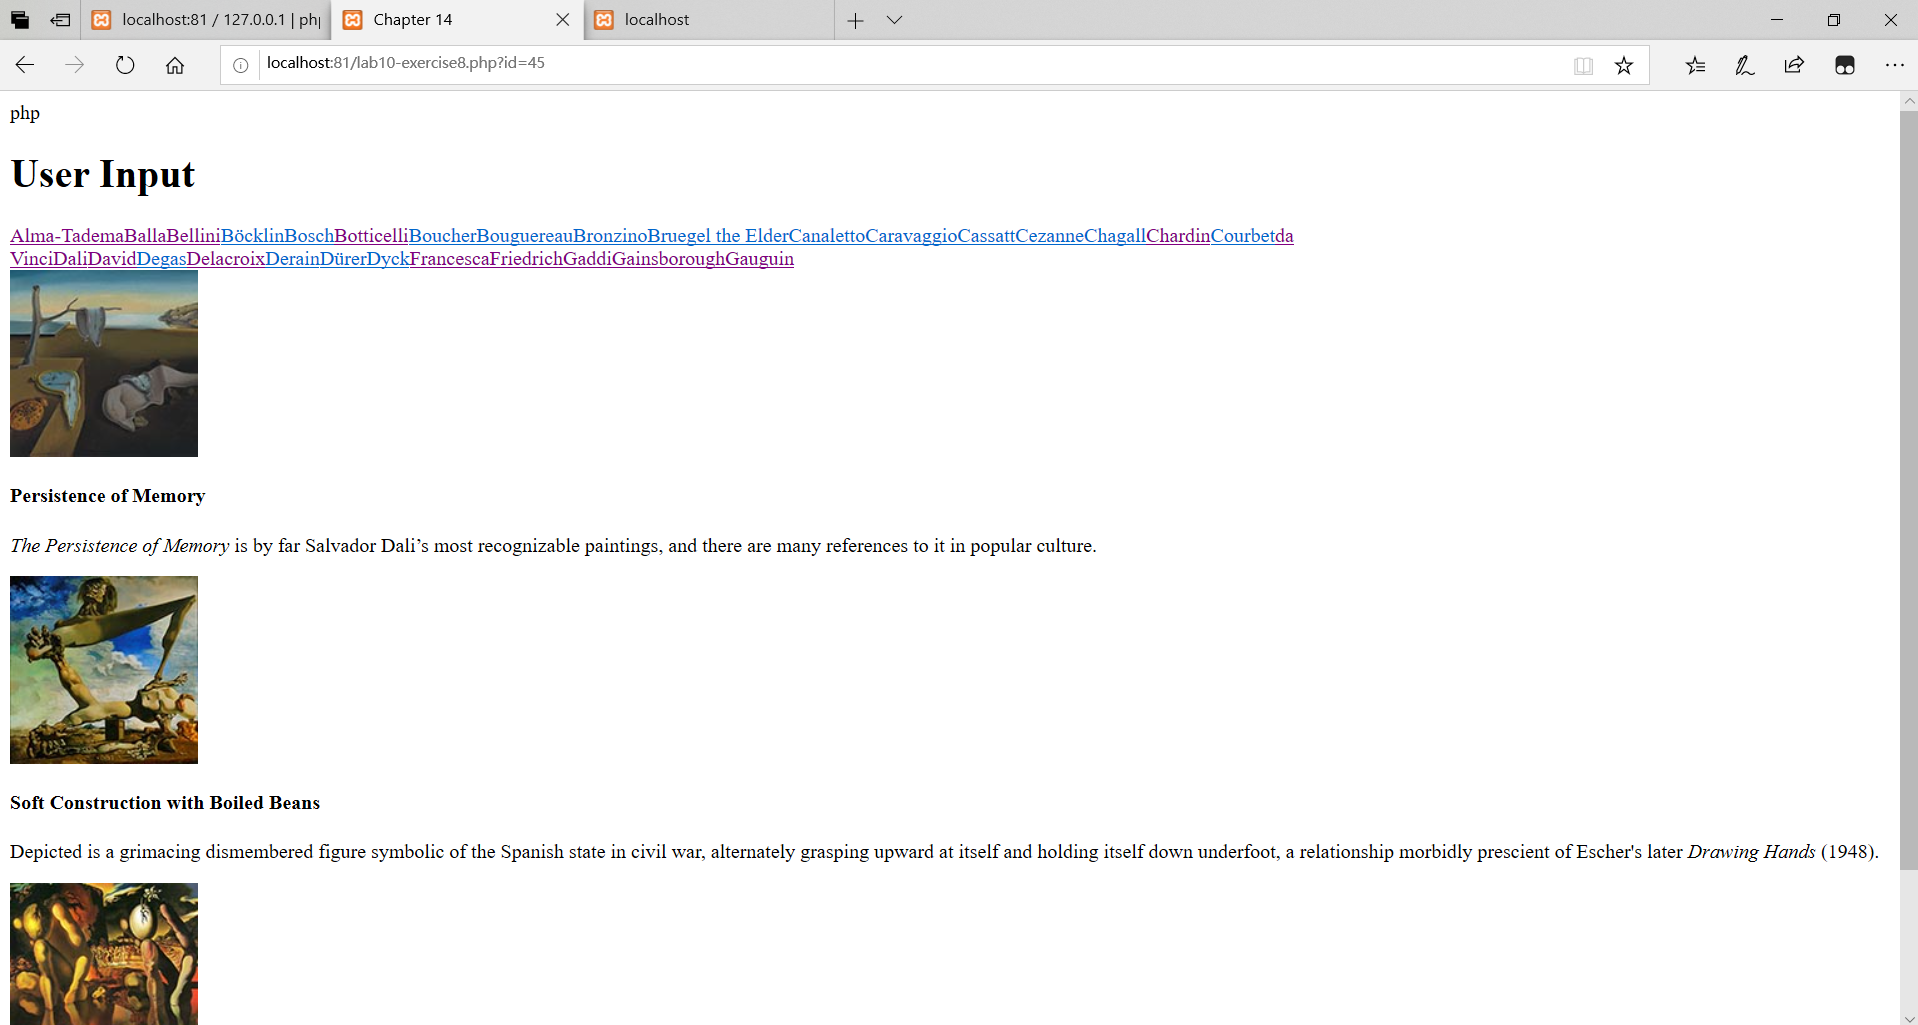
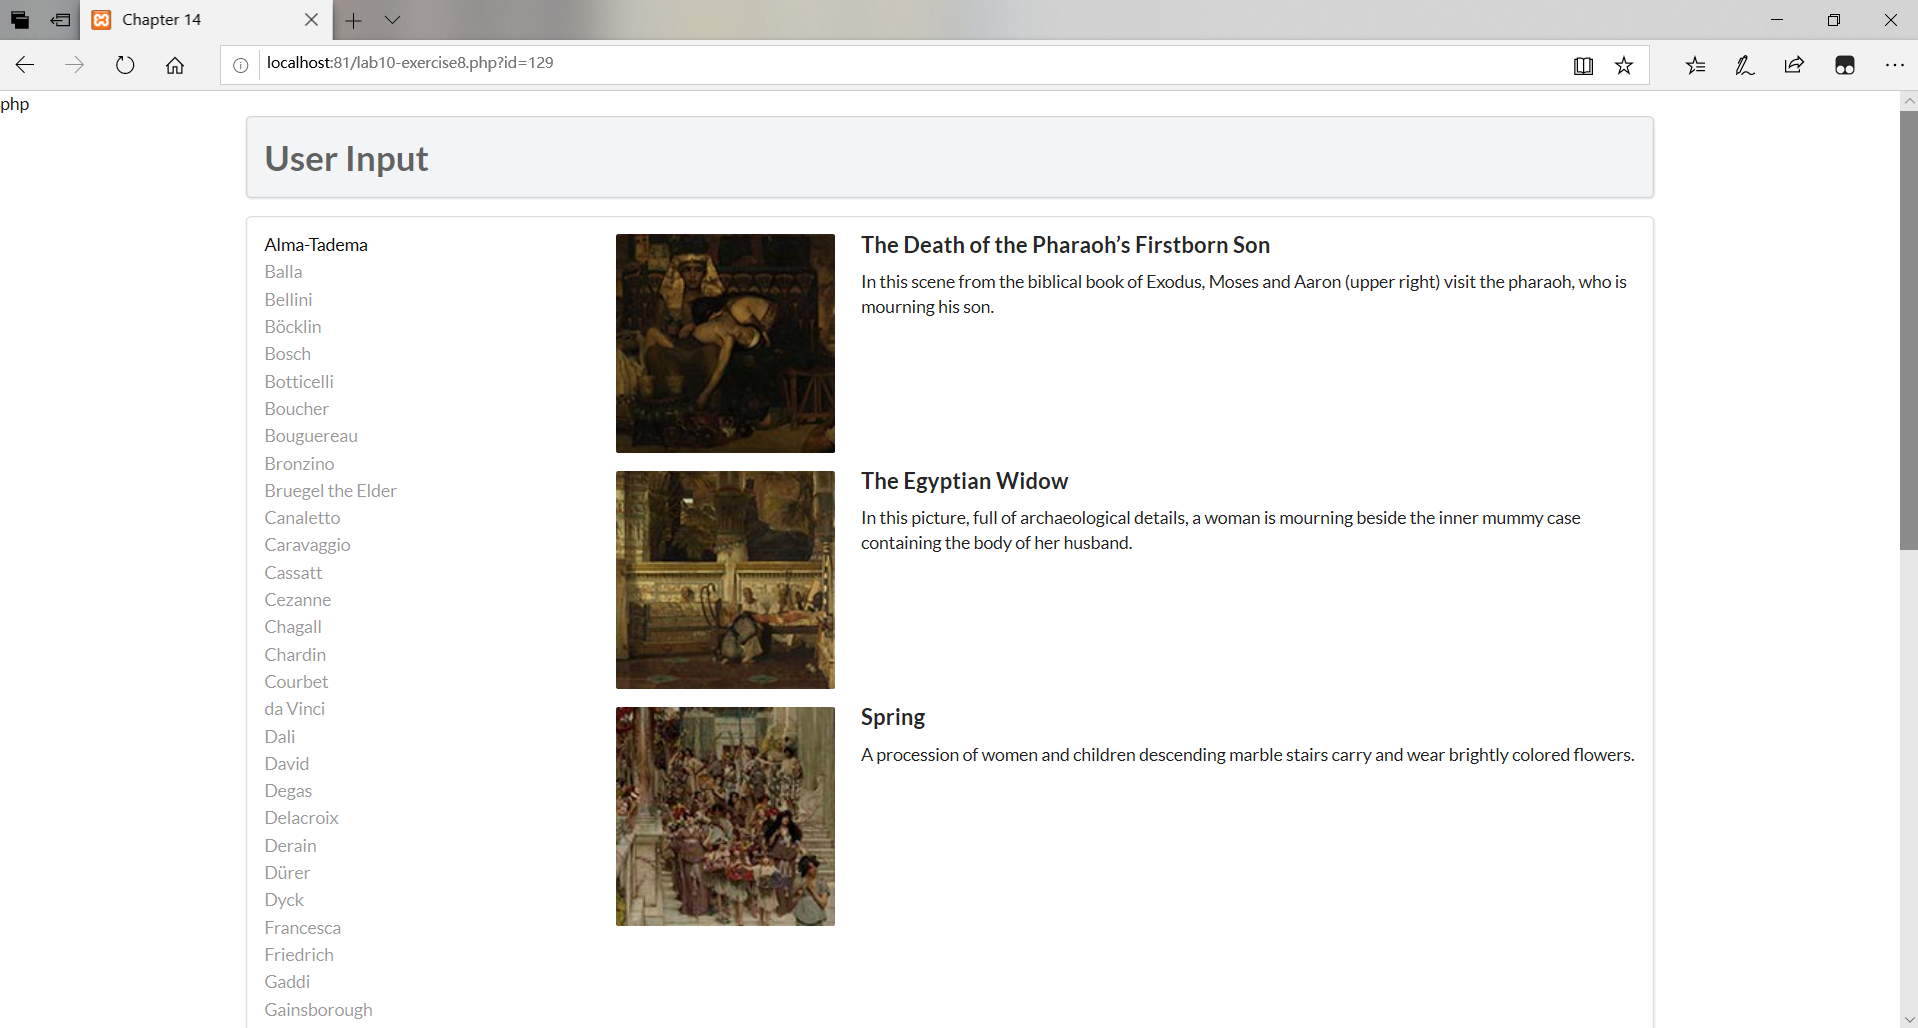
lab10

diff --git a/lab10/lab10-exercise8.php b/lab10/lab10-exercise8.php
@@ -92,6 +92,25 @@ function outputSinglePainting($row) {
          </div>
       </div>
    </main>
+   <main class="ui container">
+         <div class="ui secondary segment">
+            <h1>User Input</h1>
+         </div>
+         <div class="ui segment">
+            <div class="ui grid">
+               <div class="four wide column">
+                  <div class="ui link list">
+                     <?php outputArtists(); ?>
+                  </div>
+               </div>
+               <div class="twelve wide column">
+                  <div class="ui items">
+                     <?php outputPaintings(); ?>
+                  </div>
+               </div>
+            </div>
+         </div>
+      </main>
 
 </body>
 </html>
